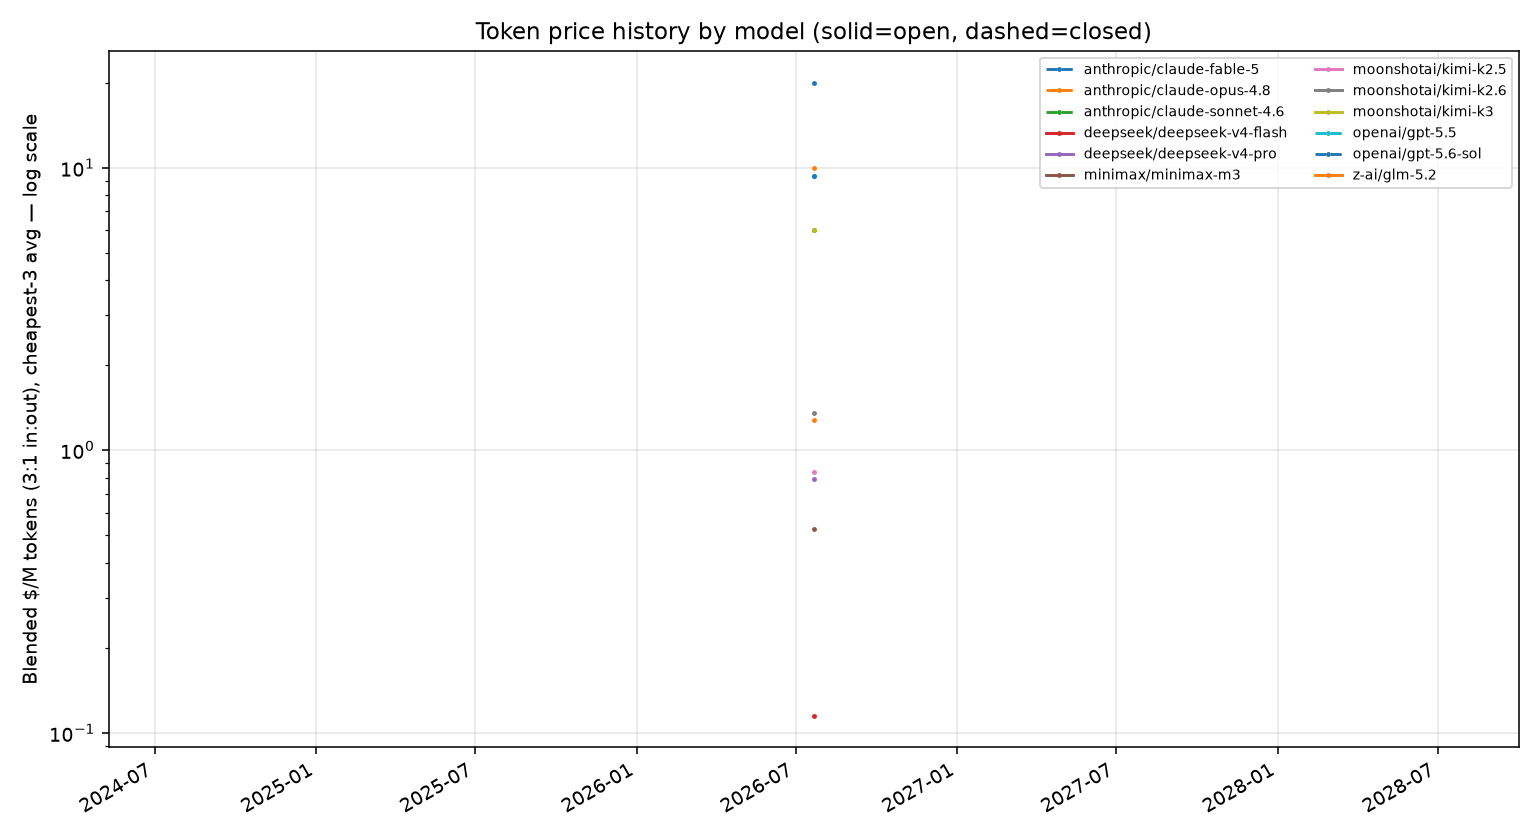
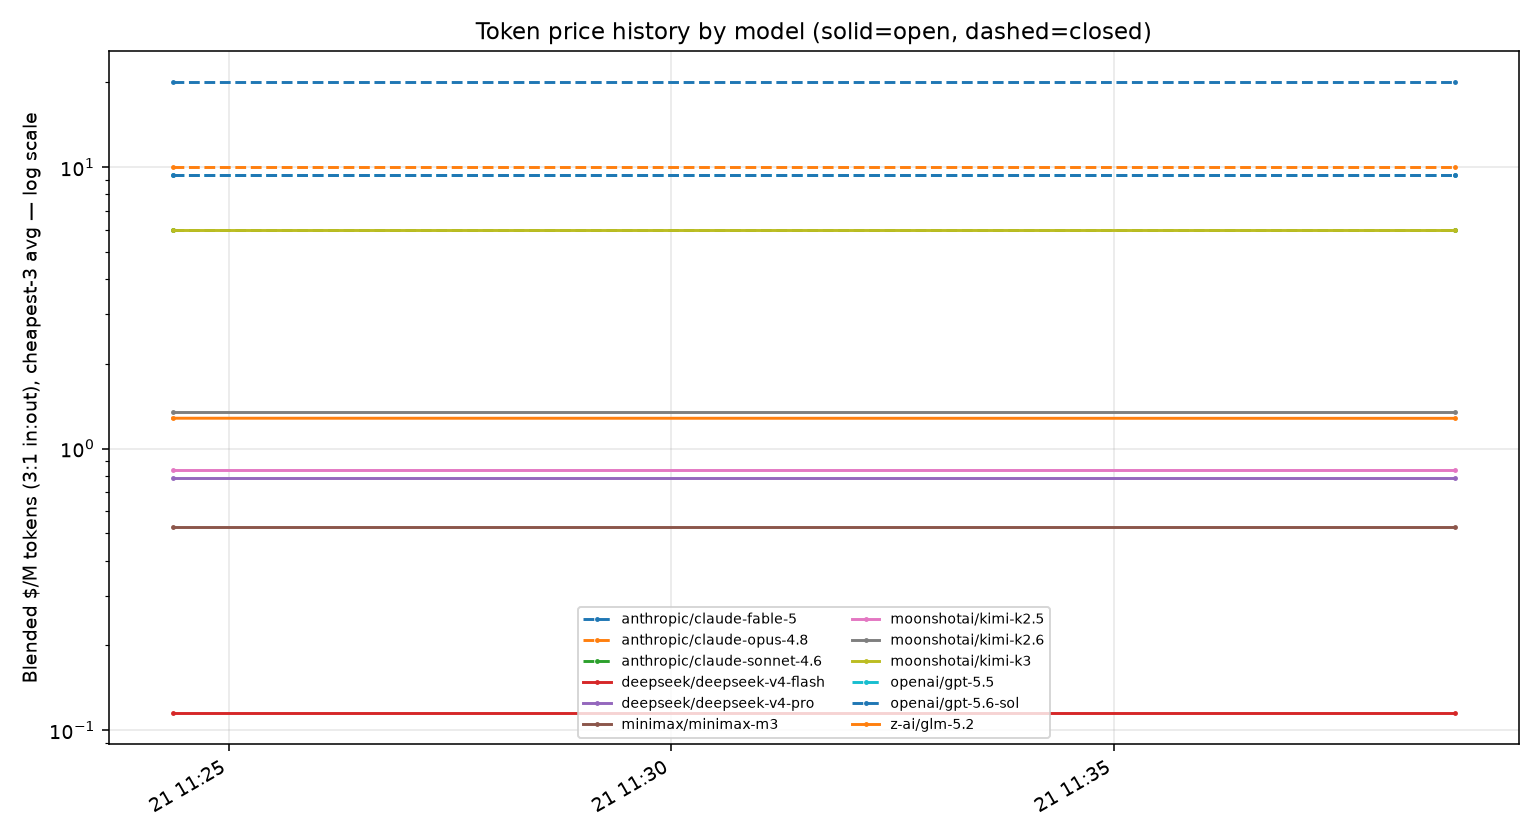
token-price-update

diff --git a/TOKEN_PRICE_SUMMARY.md b/TOKEN_PRICE_SUMMARY.md
@@ -1,5 +1,5 @@
 # Token Price Tracker — Summary
-_Last updated: 2026-07-21 11:24 UTC · latest snapshot: 2026-07-21 11:24:22 · 1 snapshots since 2026-07-21_
+_Last updated: 2026-07-21 11:38 UTC · latest snapshot: 2026-07-21 11:38:51 · 2 snapshots since 2026-07-21_
 
 ## Latest market cost per model (cheapest-3 avg, blended 3:1)
 